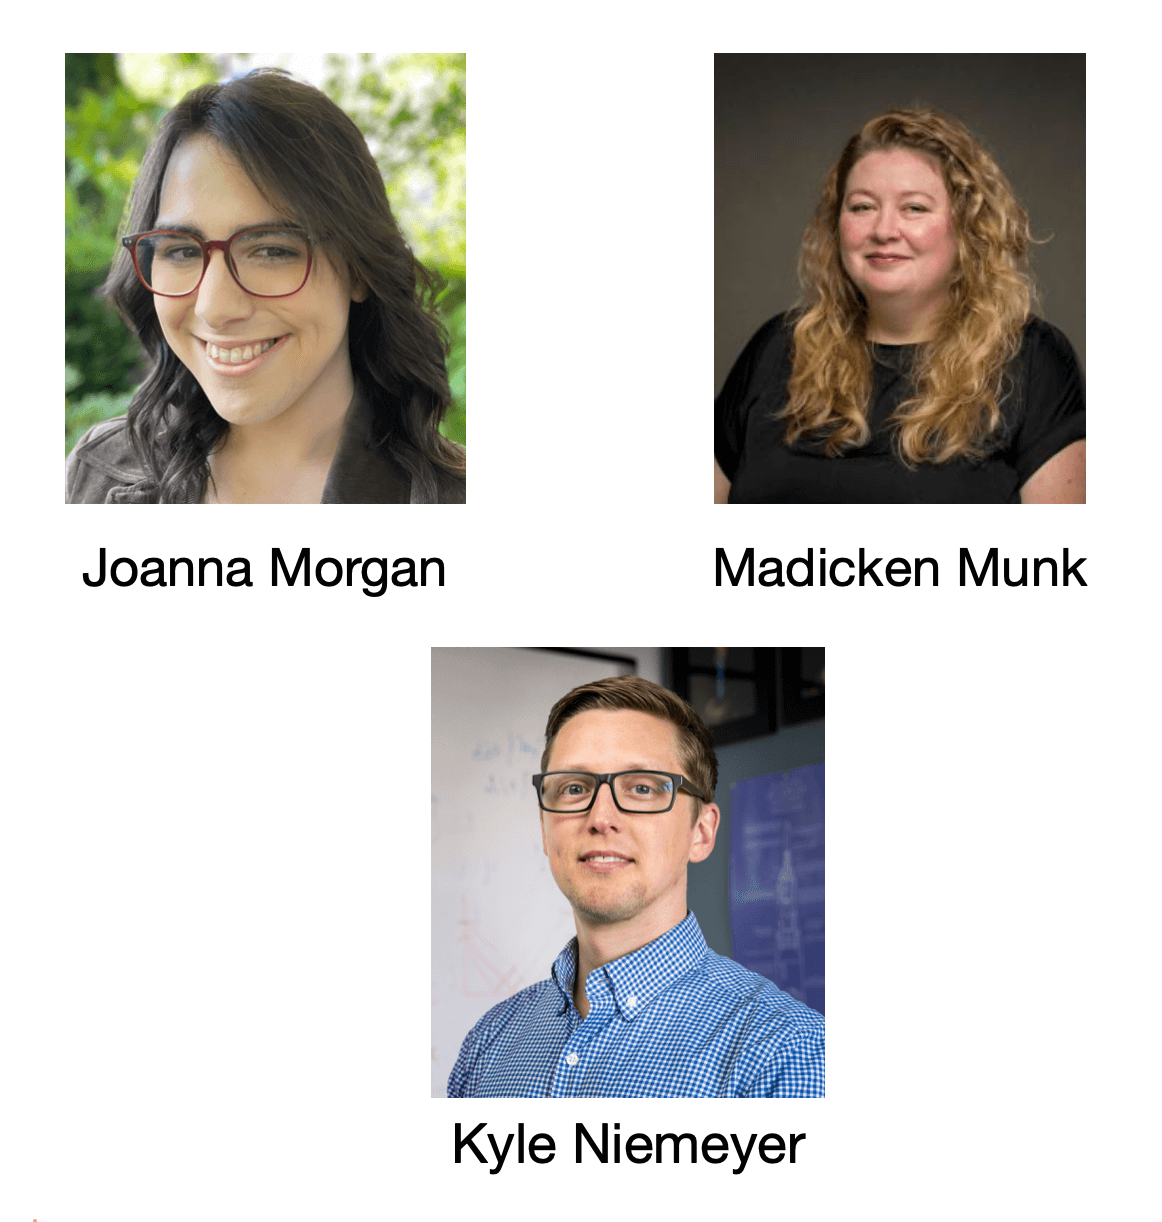
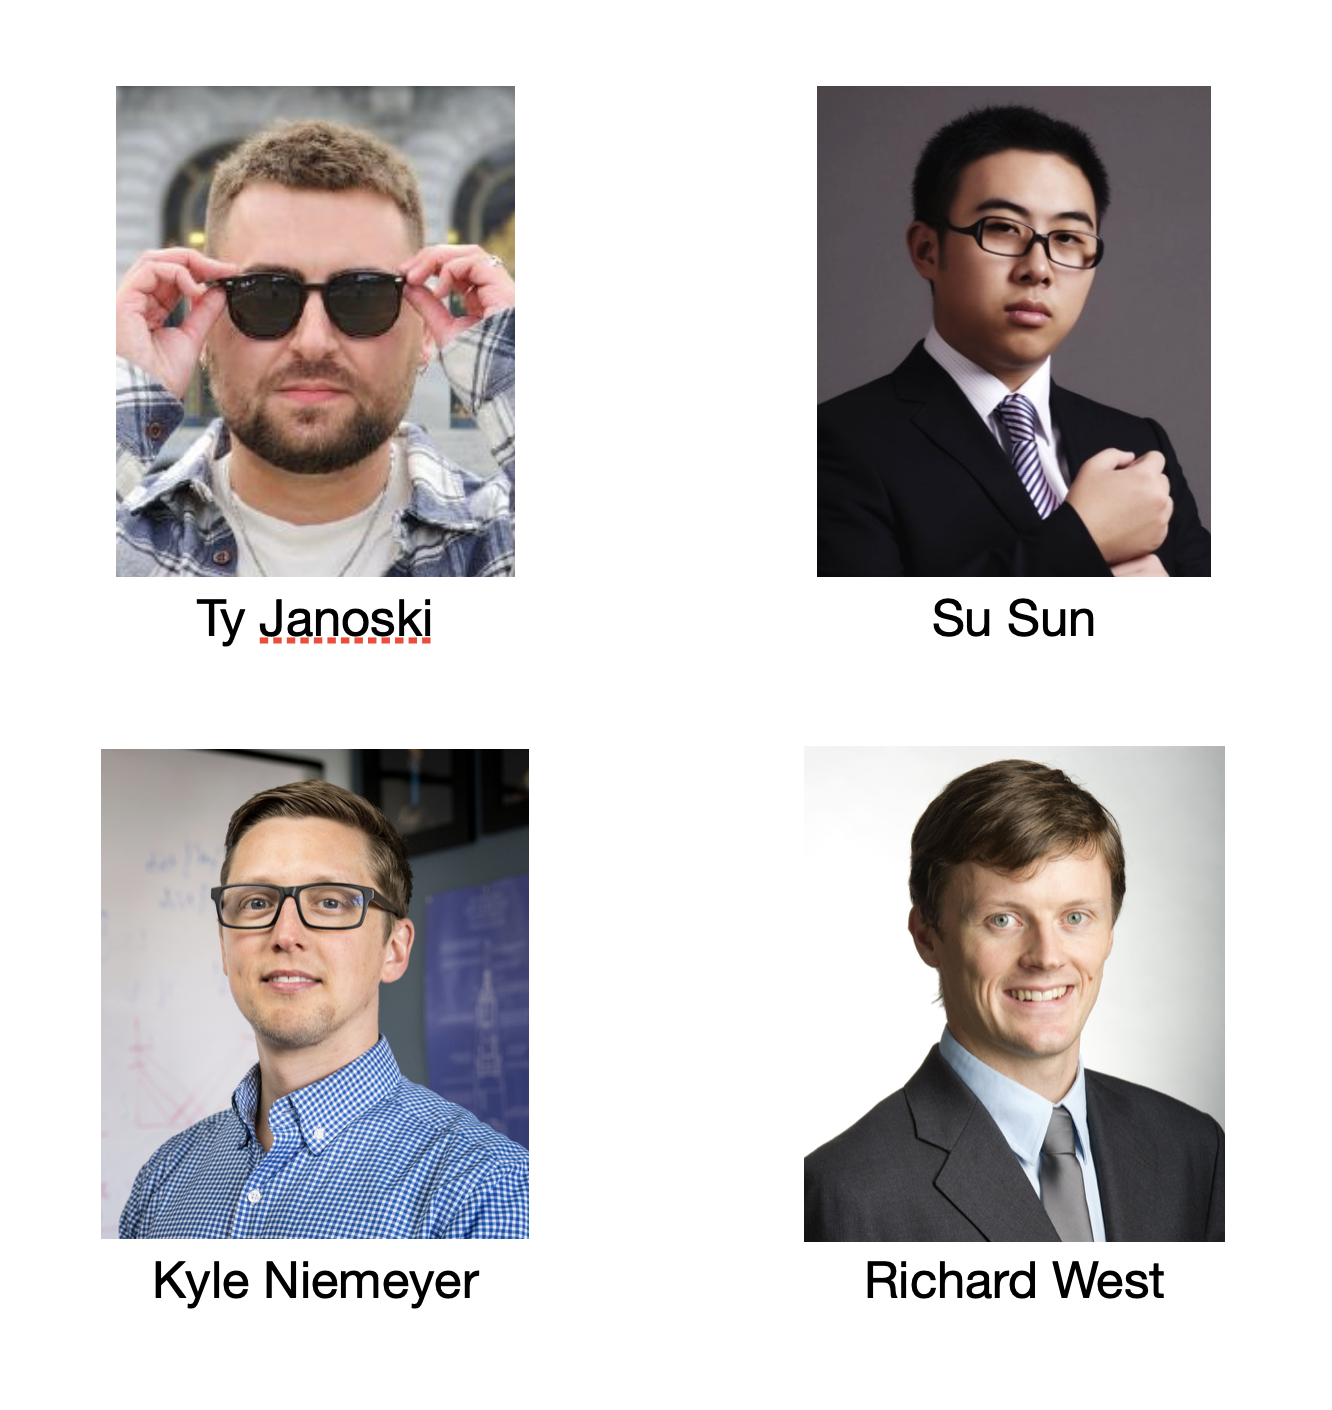
updatess for June 2026

diff --git a/intro-slides/index.html b/intro-slides/index.html
@@ -31,7 +31,7 @@
                     <textarea data-template>
                         <img src="./images/URSSI-TRANS.png" height="200" alt="URSSI logo">
                         
-                        ## Welcome to the 2025 URSSI Winter School!
+                        ## Welcome to the 2026 URSSI Summer School!
                     </textarea>
                 </section>
 
@@ -39,9 +39,8 @@
                     <h3>Summer school links</h3>
                     <br/>
                     <div style="font-size:30px">
-                    <p>Zulip chatroom: <code>https://urssi-softwareschool.zulipchat.com/</code> (join <code>#December-2025</code> channel)</p>
-                    <p>HackMD notepad: <code>https://hackmd.io/@kyleniemeyer/SyfQNc2Mbg/edit</code></p>
-                    <p>Wifi: <code>eduroam</code> or <code>Visitor</code></p>
+                    <p>Zulip chatroom: <code>https://urssi-softwareschool.zulipchat.com/</code> (join <code>#June-2026</code> channel)</p>
+                    <p>Wifi: <code>eduroam</code> or <code>NUwave-guest</code></p>
                     </div>
                 </section>
 
@@ -49,7 +48,7 @@
                     <textarea data-template>
                         ## Code of Conduct
 
-                        <code>https://github.com/si2-urssi/winterschool-Dec2025/</code>
+                        <code>https://github.com/si2-urssi/summerschool-June2026</code>
 
                         <img src="./images/coc-screenshot.png" height="400" alt="Screenshot of code of conduct">
                     </textarea>
@@ -73,7 +72,7 @@
 
                 <section>
                     <h3>Schedule and plan for the next few days</h3>
-                    <p><code>github.com/si2-urssi/winterschool-Dec2025/</code></p>
+                    <p><code>github.com/si2-urssi/winterschool-June2026/</code></p>
                     <br/>
                     <img src="./images/schedule.png" height="400" alt="Schedule for event">
                 </section>
@@ -92,6 +91,7 @@
                     <textarea data-template>
                         ## What are we going to learn about?
 
+                        - Environment management
                         - Software design
                         - Structuring (Python) programs
                         - Collaborative software development
@@ -106,7 +106,7 @@
                         ## Structure
 
                         - Three-hour sessions in the morning, four hours in the afternoon.
-                        - Generally ~1 hour on topic, followed by work time.
+                        - Generally 1-1.5 hours on topic, followed by work time.
                     </textarea>
                 </section>
                 <section data-markdown>
@@ -138,6 +138,7 @@
                         - Managing virtual environments
                         - Software design & modularity
                         - Structuring Python packages
+                        - Collaboration with Git/GitHub
                     </textarea>
                 </section>
                 </section>
